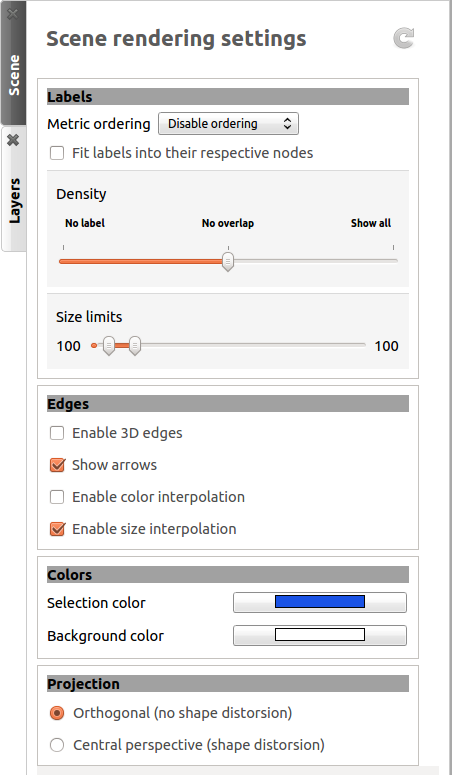
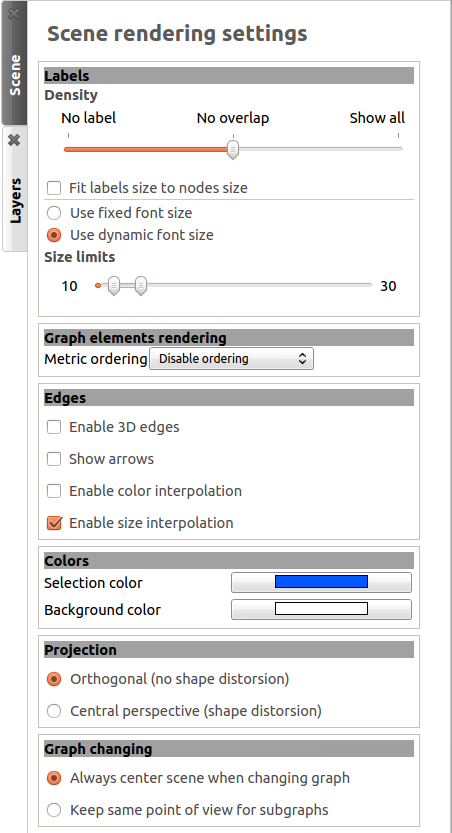
add doc about features accessible through various title bar buttons
git-svn-id: https://svn.code.sf.net/p/auber/code/tulip@9988 f5d4c5f9-c943-4916-8a57-bd8605bf961c

diff --git a/doc/user/workspace.rst b/doc/user/workspace.rst
@@ -13,17 +13,13 @@ Manage the panels
 =================
 
 .. |icon_workspace_macros| image:: _images/icon_workspace_macros.png
-    :width: 384
 .. |icon_panel_arrow| image:: _images/icon_panel_arrow.png
-    :width: 89
 .. |icon_panels| image:: _images/icon_panels.png
-    :width: 173
 .. |icon_close_panel| image:: _images/icon_close_panel.png
-    :width: 21
 .. |icon_move_panel| image:: _images/icon_move_panel.png
-    :width: 19
 .. |icon_list_graph| image:: _images/icon_list_graph.png
-    :width: 23
+.. |icon_link| image:: _images/i_link.png
+.. |icon_unlink| image:: _images/i_unlink.png
 
 When working on Tulip, you will need several panels to see all the information you need. In order to easily compare or sort your results, you can find at the bottom of the workspace a toolbar containing three groups of buttons :
 
@@ -41,15 +37,23 @@ You can then double-click on a panel icon to open it, click on the cross in the 
 .. image:: _images/i_workspace_6panels.png
     :width: 600
 
-On the top-right corner of the workspace window, you will find three different buttons:
+|
+
+In the title bar of a workspace panel, you will find different buttons:
 
 * |icon_list_graph|: Clicking on this button will display a list of opened graphs. The name of the current one is displayed using a bold font. Choosing an other graph will modify the current panel and update the visualized information.
 
-* |icon_move_panel|: When using the tiled display, you can use this icon to reorganize the panels to your convinience. 
+* |icon_unlink|: When this icon is displayed, it indicates that the selection of the current graph in this workspace panel, is not synchronized with the selection of the active graph in the Graphs panel. Clicking on the button displaying this icon will enable the synchronization.
 
-* |icon_close_panel|: Clicking on this icon will delete the current panel. 
+* |icon_link|: When this icon is displayed, it indicates that the selection of the current graph in this workspace panel, is synchronized with the selection of the active graph in the Graphs panel. This means that when selecting a graph in the Graphs panel, it will be automatically the current one in this workspace panel if it is the active panel. Clicking on the button displaying this icon will disable the synchronization.
 
-The creation of panels have already been presented earlier. Consult :ref:`workspace_view` for more information.
+* |icon_move_panel|: When using the tiled display, you can press on this icon to move a panel and exchange its place with the one of another displayed panel. 
+
+* |icon_close_panel|: Clicking on this icon will delete the current panel.
+
+The title bar of the currently active workspace panel is highlited with a top green line.
+
+The creation of panels have already been presented in the previous section. Consult :ref:`workspace_view` for more information.
 
 
 .. _workspace_diagram:
@@ -319,7 +323,7 @@ The final element is a combo box, allowing the user to choose which graph to vis
 Scene
 -----
 
-The scene rendering settings can be opened by clicking on the **Scene** tab, in the top right corner of the node link diagram panel. The following view appears :
+The scene rendering settings can be opened by clicking on the **Scene** tab, in the top right corner of the node link diagram panel. The following tab then appears :
 
 .. image:: _images/i_workspace_scene.png
     :width: 452
@@ -333,6 +337,8 @@ The scene rendering settings can be opened by clicking on the **Scene** tab, in 
 
 * **Projection**: select the orthogonal or classic perspective projection.
 
+* **Graph changing**: specify if the scene point of view must change when switching the graph to display.
+
 Note that some of the settings mentioned above can be modified through the quick access bar or with the right click menu in the main window.
 
 You might need to click on the refresh button, in the top right corner of the tab to apply the changes made in this tab. The tab can be closed by clicking on the cross near the tab's name.
@@ -343,7 +349,7 @@ You might need to click on the refresh button, in the top right corner of the ta
 Layers
 ------
 
-The layers settings can be accessed by clicking on the **Layers** tab. The following view is displayed:
+The layers settings can be accessed by clicking on the **Layers** tab. The following tab is then is displayed:
 
 .. image:: _images/i_workspace_layers.png
     :width: 450
@@ -424,7 +430,7 @@ This panel displays the properties of the nodes and edges of the graph.
 Main window
 -----------
 
-Properties are an important concept in Tulip, they are used to store information about each node and edge. By convention, the properties used by the rendering engine begin with the “view” prefix but it is possible to define an unlimited number of additional properties to your convinience. 
+Properties are an important concept in Tulip, they are used to store information about each node and edge. By convention, the properties used by the rendering engine begin with the “view” prefix but it is possible to define an unlimited number of additional properties to your convenience. 
 
 Here is the list of all the rendering properties (e : used with edges, n: used with nodes):
 

diff --git a/doc/user/gui.rst b/doc/user/gui.rst
@@ -21,9 +21,9 @@ Here are the components of Tulip Perspective's main window:
 
 |l_red| Menus and toolbar
 
-|l_yel| Algorithm panel
+|l_yel| Algorithms panel
 
-|l_pur| Graph list
+|l_pur| Graphs panel
 
 |l_blu| Workspace view
 
@@ -82,18 +82,42 @@ The vertical toolbar, on the left of the main window, contains 6 buttons:
 
 .. _algo_window:
 
-Algorithm list
-==============
+Algorithms panel
+================
 
 .. |icon_algorithm_fav| image:: ../../plugins/perspective/GraphPerspective/resources/icons/16/favorite.png
 .. |icon_algorithm_unfav| image:: ../../plugins/perspective/GraphPerspective/resources/icons/16/favorite-empty.png
 .. |icon_algorithm_properties| image:: ../../plugins/perspective/GraphPerspective/resources/icons/16/preferences-other.png
 .. |icon_algorithm_launch| image:: ../../plugins/perspective/GraphPerspective/resources/icons/16/media-playback-start.png
+.. |icon_link| image:: _images/i_link.png
+.. |icon_unlink| image:: _images/i_unlink.png
 
 Tulip proposes several ready-to-use algorithms, offering - among others - coloration, labeling and presentation solutions.
 
 .. image:: _images/i_algorithm.png
     :width: 300
+
+In the right corner of the title bar of this panel, you will find two buttons.
+
+The left button allows to expand/contract the contents of this panel:
+
+* |icon_hide_contents|: When this icon is displayed, clicking on this button will hide the contents of the panel.
+
+* |icon_show_contents|: When this icon is displayed, clicking on this button will show the contents of the panel.
+
+Clicking on the right button displays a menu.
+
+.. image:: _images/menu_result.png
+
+This menu allows to choose the storage policy for the result of property algorithms (such as measures or layout algorithms). When they are applied to a subgraph, this result can be stored:
+
+* either in a local subgraph property (created on the fly if needed),
+
+* or in a property already existing in the ascendant hierarchy (inherited or local).
+
+
+
+Here are the description of the contents of the Algorithms panel:
 
 * *Filter*: A search field to find the algorithms whose name or (sub) group match a given pattern.
 
@@ -106,13 +130,32 @@ Tulip proposes several ready-to-use algorithms, offering - among others - colora
 
 .. _graph_list:
 
-Graph list
-==========
+Graphs panel
+============
 
-This window gives information about the currently opened graphs.
+.. |icon_hide_contents| image:: _images/i_hide_contents.png
+.. |icon_show_contents| image:: _images/i_show_contents.png
+
+This panel gives information about the currently opened graphs.
 
 .. image:: _images/i_graphs.png
     :width: 300
+
+|
+
+In the right corner of this title bar of this panel, you will find two buttons.
+
+The left button allows to expand/contract the contents of this panel:
+
+* |icon_hide_contents|: When this icon is displayed, clicking on this button will hide the contents of the panel.
+
+* |icon_show_contents|: When this icon is displayed, clicking on this button will show the contents of the panel.
+
+Clicking on right button allows to specify the synchronization policy of the Graphs panel with the workspace active panel:
+
+* |icon_link|: When this icon is displayed, it indicates that the selection of the active graph in the Graphs panel is synchronized with the selection of the graph in the workspace active panel. This means that when selecting a graph to display for this panel, it also becomes the active graph in the Graphs list and then the graph on which algoritms will applied.
+
+* |icon_unlink|: When this icon is displayed, it indicates that the selection of the active graph in the Graphs panel is not synchronized with the selection of the graph in the workspace active panel. 
 
 Users can right-click on the desired graph to open a menu proposing new options such as renaming the graph, deleting it, saving or exporting it (more in :ref:`first_save`).
 
